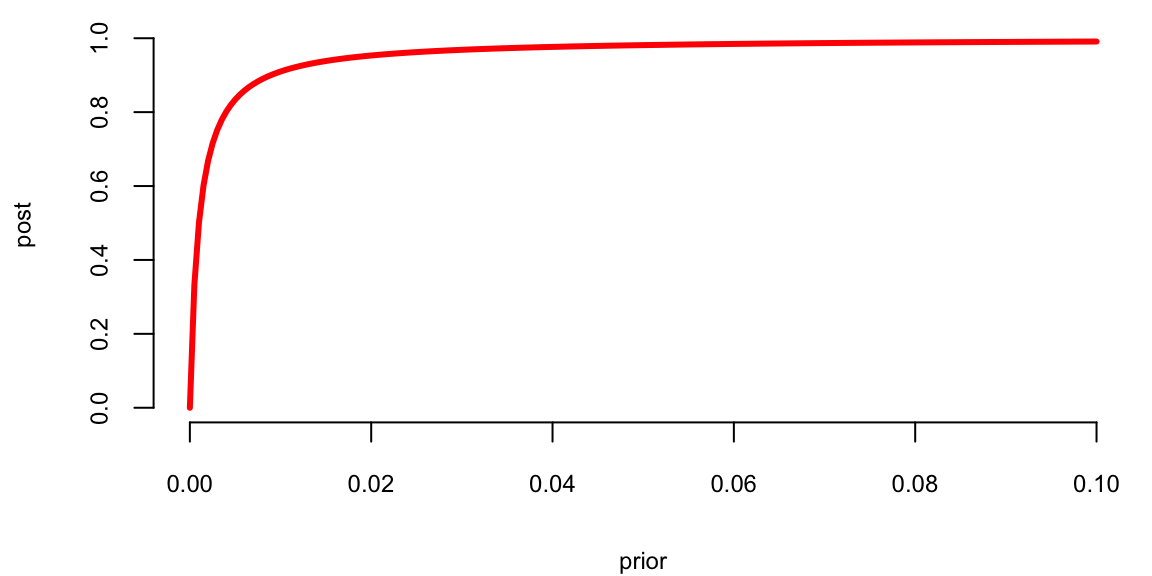
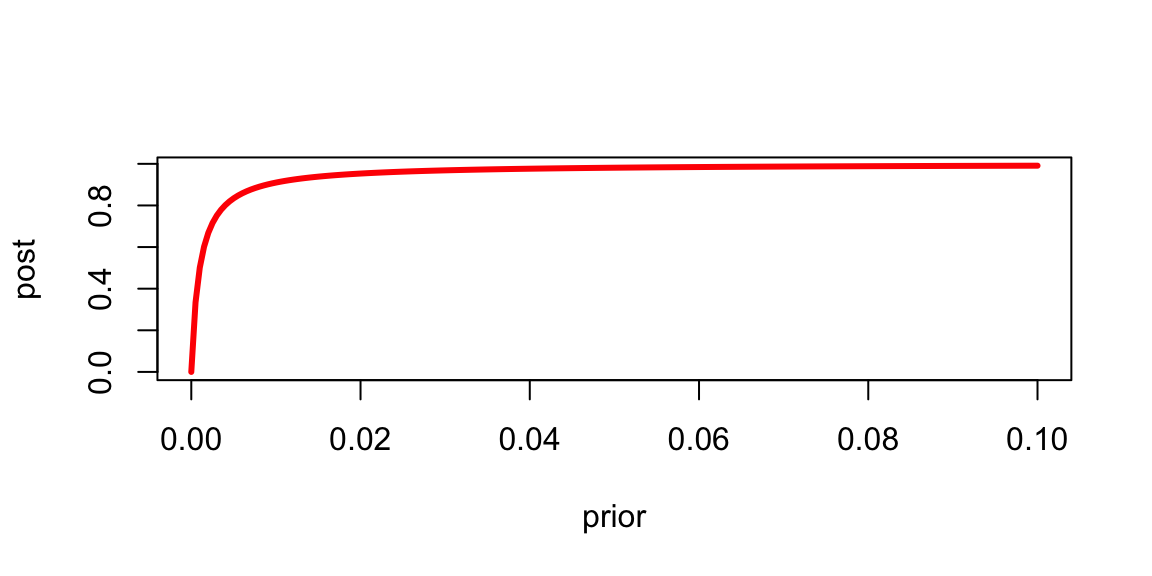
664

diff --git a/docs/html/bayes/qmd/bayes.html b/docs/html/bayes/qmd/bayes.html
@@ -792,7 +792,7 @@ $400$. Can also look at doubles and triples. See MacKay for further details.
 <p>Which allows us to estimate joint probabilities, for example <span class="math display">\[
 \prob{\mbox{outcome = returns safely} , \mbox{hit  =  engine }} = 53/800 = 0.066
 \]</span> We also can calculate the conditional probabilities now <span class="math display">\[
-\prob{\mbox{outcome = returns safely} \mid  \mbox{hit  =  wings or fuselage  }} = \dfrac{434}{434+33} = 0.93.
+\prob{\mbox{outcome = returns safely} \mid  \mbox{hit  =  wings or fuselage  }} = \dfrac{434}{434+33} = 0.9293362.
 \]</span> Should we reinforce wings or fuselage? Which part of the airplane does need ot be reinforced? <span class="math display">\[
 \prob{\mbox{outcome = returns safely} \mid  \mbox{hit  =  engine  }} = \dfrac{53}{53+57} = 0.48
 \]</span> Here is another illustration taken from Economics literature. This insight led to George Akerlof winning the Nobel Prize for the concept of asymmetric information.</p>
@@ -897,25 +897,25 @@ P(G\mid E) = 1/(1+O(G\mid E)) = 0.003491.
 </ul>
 <p>Next, we can use the Bayes analysis to solve an inverse problem and to find what prior you need to assume and how long of a sequence you need to observe to get 0.99 posterior? Small sample size, we have <span class="math inline">\(p\)</span> close to 1. <a href="#fig-n-p">Figure&nbsp;<span>3.1</span></a> shows the combination of prior (<span class="math inline">\(N\)</span>) and the probability of a streak (<span class="math inline">\(p\)</span>) that gives posterior odds of 0.99.</p>
 <p>Indeed, the results of the Bayesian analysis contradict the results of a traditional p-value based approach. A p-value is a measure used in frequentist statistical hypothesis testing. It represents the probability of obtaining the observed results, or results more extreme, assuming that the null hypothesis is true. The null hypothesis is a default position that Nakamura is not cheating and we compare the ELO-based expected win probability of <span class="math inline">\(q=0.8916\)</span> to the observed on of <span class="math inline">\(s=45/46=0.978\)</span>. Under the null hypothesis, Nakamura should perform at the level predicted by <span class="math inline">\(q\)</span>.</p>
-<div class="cell" data-null_prefix="true" data-hash="bayes_cache/html/nakamura_b6274c029851dd7f36847e019659b741">
+<div class="cell" data-hash="bayes_cache/html/nakamura_e6f5924e8156ca8a6251a54ee9dfd868">
 <div class="sourceCode cell-code" id="cb1"><pre class="sourceCode r code-with-copy"><code class="sourceCode r"><span id="cb1-1"><a href="#cb1-1" aria-hidden="true" tabindex="-1"></a>q <span class="ot">=</span> <span class="fl">0.8916</span></span>
 <span id="cb1-2"><a href="#cb1-2" aria-hidden="true" tabindex="-1"></a>p <span class="ot">=</span> <span class="fu">dbinom</span>(<span class="dv">45</span>,<span class="dv">46</span>,q)</span>
 <span id="cb1-3"><a href="#cb1-3" aria-hidden="true" tabindex="-1"></a>N <span class="ot">=</span> <span class="dv">10000</span></span>
 <span id="cb1-4"><a href="#cb1-4" aria-hidden="true" tabindex="-1"></a>odds <span class="ot">=</span> p<span class="sc">*</span>N</span>
 <span id="cb1-5"><a href="#cb1-5" aria-hidden="true" tabindex="-1"></a><span class="fu">print</span>(<span class="dv">1-1</span><span class="sc">/</span>(<span class="dv">1</span><span class="sc">+</span>odds))</span></code><button title="Copy to Clipboard" class="code-copy-button"><i class="bi"></i></button></pre></div>
 <div class="cell-output cell-output-stdout">
-<pre><code> 1</code></pre>
+<pre><code>## [1] 0.9965083</code></pre>
 </div>
 <div class="sourceCode cell-code" id="cb3"><pre class="sourceCode r code-with-copy"><code class="sourceCode r"><span id="cb3-1"><a href="#cb3-1" aria-hidden="true" tabindex="-1"></a><span class="fu">print</span>(<span class="dv">1</span><span class="sc">/</span>(<span class="dv">1</span><span class="sc">+</span>odds))</span></code><button title="Copy to Clipboard" class="code-copy-button"><i class="bi"></i></button></pre></div>
 <div class="cell-output cell-output-stdout">
-<pre><code> 0.0035</code></pre>
+<pre><code>## [1] 0.003491734</code></pre>
 </div>
 <div class="sourceCode cell-code" id="cb5"><pre class="sourceCode r code-with-copy"><code class="sourceCode r"><span id="cb5-1"><a href="#cb5-1" aria-hidden="true" tabindex="-1"></a><span class="fu">print</span>(N<span class="sc">*</span>p<span class="sc">/</span>(N<span class="sc">*</span>p<span class="sc">+</span><span class="dv">1</span>))</span></code><button title="Copy to Clipboard" class="code-copy-button"><i class="bi"></i></button></pre></div>
 <div class="cell-output cell-output-stdout">
-<pre><code> 1</code></pre>
+<pre><code>## [1] 0.9965083</code></pre>
 </div>
 </div>
-<div class="cell" data-null_prefix="true" data-hash="bayes_cache/html/fig-n-p_a9536233fd4624b3bf8236230792abc4">
+<div class="cell" data-hash="bayes_cache/html/fig-n-p_fa997c537fb5258507b15b8e56fbf49a">
 <div class="sourceCode cell-code" id="cb7"><pre class="sourceCode r code-with-copy"><code class="sourceCode r"><span id="cb7-1"><a href="#cb7-1" aria-hidden="true" tabindex="-1"></a>p <span class="ot">=</span> <span class="fu">seq</span>(<span class="at">from=</span><span class="fl">0.006</span>, <span class="at">to=</span><span class="fl">0.07</span>, <span class="at">length.out=</span><span class="dv">500</span>)</span>
 <span id="cb7-2"><a href="#cb7-2" aria-hidden="true" tabindex="-1"></a>N <span class="ot">=</span> <span class="fu">seq</span>(<span class="dv">500</span>,<span class="dv">10000</span>, <span class="at">by=</span><span class="dv">250</span>)</span>
 <span id="cb7-3"><a href="#cb7-3" aria-hidden="true" tabindex="-1"></a><span class="fu">plot</span>(<span class="dv">99</span><span class="sc">/</span>N,N,<span class="at">xlab=</span><span class="st">"p"</span>, <span class="at">ylab=</span><span class="st">"N"</span>, <span class="at">type=</span><span class="st">'l'</span>, <span class="at">lwd=</span><span class="dv">3</span>, <span class="at">col=</span><span class="st">"blue"</span>)</span></code><button title="Copy to Clipboard" class="code-copy-button"><i class="bi"></i></button></pre></div>
@@ -969,16 +969,24 @@ P \left(  \mathrm{both} \; \; \mathrm{SIDS} \right)  = \frac{1}{8500}
 <p>Experts also mis-interpret the evidence by saying: <em>1 in 73 million chance that it is someone else</em>. This is clearly false and misleading to the jury and has leads to appeals.</p>
 </div>
 <div id="exm-Simpson" class="theorem example">
-<p><span class="theorem-title"><strong>Example 3.15 (O. J. Simpson Case (Dershowitz Fallacy)) </strong></span>This example is based on I. J. Good’s, “When batterer turns murderer.” Nature, 15 June 1995, p.&nbsp;541. Alan Dershowitz, on the O. J. Simpson defense team, stated on T.V. and in newspapers that only 0.005 percent of men who abuse their wives go on to murder them. He clearly wanted his audience to interpret this to mean that the evidence of abuse by Simpson would only suggest a 1 in 2000 chance of his being guilty of murdering her.</p>
-<p>Both authors believe the jury would be more interested in the probability that the husband is guilty of the murder of his wife given that he abused his wife and his wife was murdered. They both solve this problem by using Bayes’ theorem, but their solutions differ in an interesting way.</p>
-<p>Later used probability to argue that because so few husbands who batter their wifes actually go on to murder their wives. Thus, O.J. is highly likely to be not guilty. This leaves out the most relevant conditioning information that we also know that Nicole Brown Simpson was actually murdered, put it in formula <span class="math display">\[
-p ( G \mid  B ) \neq p( G \mid  B , M )
-\]</span> Here <span class="math inline">\(G\)</span> stands for guilty, <span class="math inline">\(B\)</span> for known previous battery and <span class="math inline">\(M\)</span> stands for being a murderer. <!-- For example, in the famous O.J. Simpson case, let $G$ denote guilt, $M$ denote murderer, and $B$ denotes batterer.  --></p>
-<p>It is not hard to come to a wrong conclusion if you don’t take into account all the relevant conditional information. He intended this information to exonerate O.J. <span class="math inline">\(p( M \mid \text{not } G , B ) = p( M\mid \text{not } G ) = \frac{1}{20,000}\)</span>. The Bayes factor is then <span class="math display">\[
-\frac{ p( G \mid  M , B ) }{ p(  \text{not } G \mid  M , B ) } = \frac{ 1/2000 }{1 /20,000} = 10
-\]</span> which implies posterior probabilities <span class="math display">\[
-p(  \text{not } G \mid  M , B ) = \frac{1}{1+10} \; \mathrm{ and} \; p( G \mid  M , B ) = \frac{10}{11}
-\]</span> Hence its over <span class="math inline">\(90\)</span>% chance that O.J. is guilty based on this information!</p>
+<p><span class="theorem-title"><strong>Example 3.15 (O. J. Simpson Case (Dershowitz Fallacy)) </strong></span>&nbsp;</p>
+<!-- https://rss.onlinelibrary.wiley.com/doi/pdf/10.1111/j.1740-9713.2015.00839.x -->
+<p>This example is based on I. J. Good’s, “When batterer turns murderer.” Nature, 15 June 1995, p.&nbsp;541. Alan Dershowitz, on the O. J. Simpson defense team, stated on T.V. and in newspapers that only 0.004 percent of men who abuse their wives go on to murder them. He clearly wanted his audience to interpret this to mean that the evidence of abuse by Simpson would only suggest a 1 in 2500 chance of his being guilty of murdering her. Both authors believe the jury would be more interested in the probability that the husband is guilty of the murder of his wife given that he abused his wife and his wife was murdered. They both solve this problem by using Bayes’ theorem, but their solutions differ in an interesting way.</p>
+<p>Later used probability to argue that because so few husbands who batter their wifes actually go on to murder their wives. Thus, O.J. is highly likely to be not guilty. This leaves out the most relevant conditioning information that we also know that Nicole Brown Simpson was actually murdered.</p>
+<p>In this example, the notation <span class="math inline">\(B\)</span> represents “woman battered by her husband, boyfriend, or lover”, <span class="math inline">\(M\)</span> represents the event “woman murdered”, and by extension, <span class="math inline">\(M, B\)</span> denotes “woman murdered by her batterer”. Our goal is to show that <span class="math display">\[
+P(M,B \mid M) \neq P(M,B \mid B).
+\]</span></p>
+<p>It is not hard to come to a wrong conclusion if you don’t take into account all the relevant conditional information. He intended this information to exonerate O.J. In 1992. the women population of the US was 125 million and 4936 women were murdered, thus <span class="math display">\[
+P(M) = 4936/125,000,000 = 0.00004 = 1/25,000.
+\]</span> At the same year about 3.5 million women were battered <span class="math display">\[
+P(B) = 2.5/125 = 0.028.
+\]</span> That same year 1432 women were murdered by their previous batterers, so the marginal probability of that event is <span class="math inline">\(P(M, B) = 1432/125,000,000 = 0.00001 = 1/87,290\)</span>, and the conditional probability, <span class="math inline">\(P(M, B | B)\)</span> is 1432 divided by 3.5 million, or <span class="math inline">\(1/2444\)</span>. These are the numbers Dershowitz used to obtain his estimate that about 1 in 2500 battered women go on to be murdered by their batterers.</p>
+<p>We need to calculate <span class="math display">\[
+P(M,B \mid M) = P(M | M,B) P(M,B) / P(M).
+\]</span> We know <span class="math inline">\(P(M | M,B) = 1\)</span> and <span class="math inline">\(P(M,B) / P(M) = 0.000 01/0.000 04 = 0.29\)</span>, or about 1 in 3.5.</p>
+<p>Alan Dershowitz provided the jury with an accurate but irrelevant probability. A murdered woman having been murdered by her batterer is 709 times more likely than a battered woman being murdered by her batterer: <span class="math display">\[
+P(M,B\mid M)\approx 709\times P(M,B\mid B).
+\]</span></p>
 <p>The argument used by Dershowitz relating to the Simpson case has been discussed by John Paulos in an op-ed article in the Philadelphia Inquirer (15 Oct.&nbsp;1995, C7) and his book “Once Upon a Number”, by I.J. Good in an article in Nature (June 15,1995, p 541) and by Jon Merz and Jonathan Caulkins in an article in Chance Magazine, (Spring 1995, p 14).</p>
 </div>
 <p>Probability measures the uncertainty of an event. But how do we measure probability? One school of thought, takes probability as subjective, namely personal to the observer. de Finetti famously concluded that “Probability does not exist.” Measuring that is personal to the observer. It’s not like mass which is a property of an object. If two different observers have differing “news” then there is an them to bet (exchange contracts). Thus leading to a assessment of probability. Ramsey (1926) takes this view.</p>
@@ -1049,7 +1057,7 @@ p(a=1 \mid b=1) = 1, ~p(a=1 \mid b=0) = 0.1*10^{-2} + 0 = 10^{-3}.
 <p>This result is somewhat counterintuitive. We get such a low probability of burglary because its prior is very low compared to prior probability of an earthquake. What will happen to posterior if we live in an area with higher crime rates, say <span class="math inline">\(p(b) = 10^{-3}\)</span>. <a href="#fig-alarm">Figure&nbsp;<span>3.3</span></a> shows the relationship between the prior and posterior. <span class="math display">\[
 p(a \mid b) = \dfrac{p(b)}{p(b) + 10^{-3}(1-p(b))}
 \]</span></p>
-<div class="cell" data-null_prefix="true" data-hash="bayes_cache/html/fig-alarm_4642e24e38b4ea7854a77a68c266df1a">
+<div class="cell" data-hash="bayes_cache/html/fig-alarm_1d2193230d88306739375e08a39f532a">
 <div class="sourceCode cell-code" id="cb8"><pre class="sourceCode r code-with-copy"><code class="sourceCode r"><span id="cb8-1"><a href="#cb8-1" aria-hidden="true" tabindex="-1"></a>prior <span class="ot">&lt;-</span> <span class="fu">seq</span>(<span class="dv">0</span>, .<span class="dv">1</span>, <span class="at">length.out =</span> <span class="dv">200</span>)</span>
 <span id="cb8-2"><a href="#cb8-2" aria-hidden="true" tabindex="-1"></a>post <span class="ot">&lt;-</span> prior <span class="sc">/</span> (prior <span class="sc">+</span> <span class="fl">0.001</span> <span class="sc">*</span> (<span class="dv">1</span> <span class="sc">-</span> prior))</span>
 <span id="cb8-3"><a href="#cb8-3" aria-hidden="true" tabindex="-1"></a><span class="fu">plot</span>(prior, post, <span class="at">type =</span> <span class="st">"l"</span>, <span class="at">lwd =</span> <span class="dv">3</span>, <span class="at">col =</span> <span class="st">"red"</span>)</span></code><button title="Copy to Clipboard" class="code-copy-button"><i class="bi"></i></button></pre></div>
